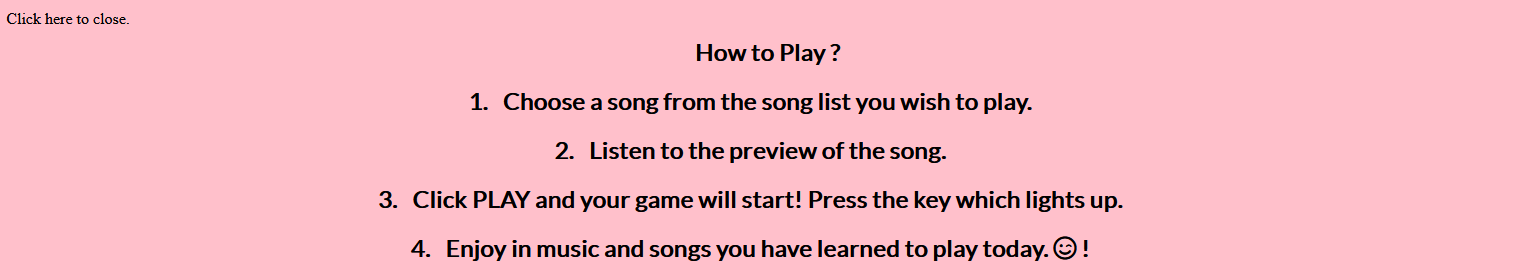
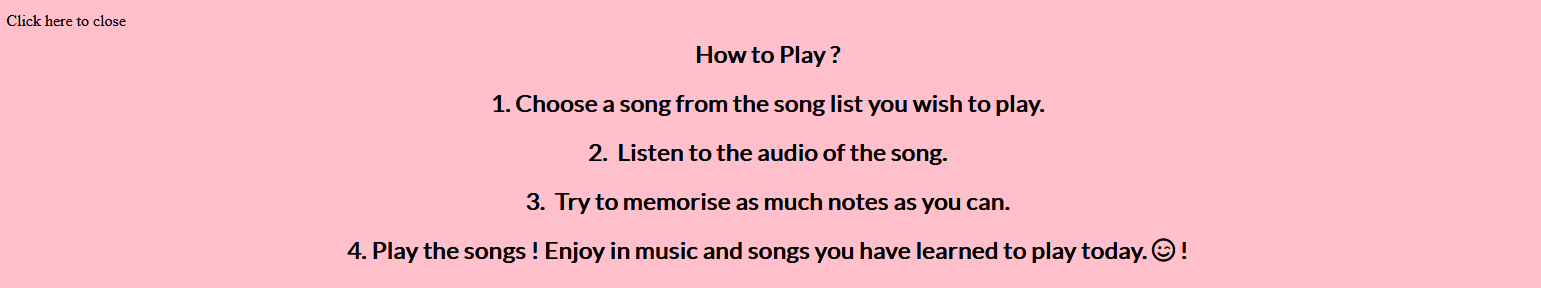
Add more images to image folder

diff --git a/README.md b/README.md
@@ -15,7 +15,7 @@ You can access the website [here](https://ivana505.github.io/funky-keyboard/).
 - Choose your song
      - User can choose a song from the list and click on the audio to hear it first.
      - Audio helps user to hear the beat and tempo of the song.
-     - After the user clicks on "PLAY", the game starts and the first key of the song lights up on the keyboard which user needs to press. After the first key is pressed, another key will light up and user needs to press it next all up until the whole song is played.
+     - User can try and memorise as much keys as possible and try to play the song.
 ![choose your song](assets/images/choose-a-song.png)
 
 - Created by
@@ -127,10 +127,12 @@ Modal Chioose your song[Brave](https://brave.com/)
     
 Result for desktop 
  - Performance for the desktop version 
+
 ![desktop](assets/images/lighthouse-desktop.png)
 
 Result for mobile devices
 - Performance for mobile devices 
+
 ![mobile](assets/images/lighthouse-mobile.png)
 
 ### Bugs
